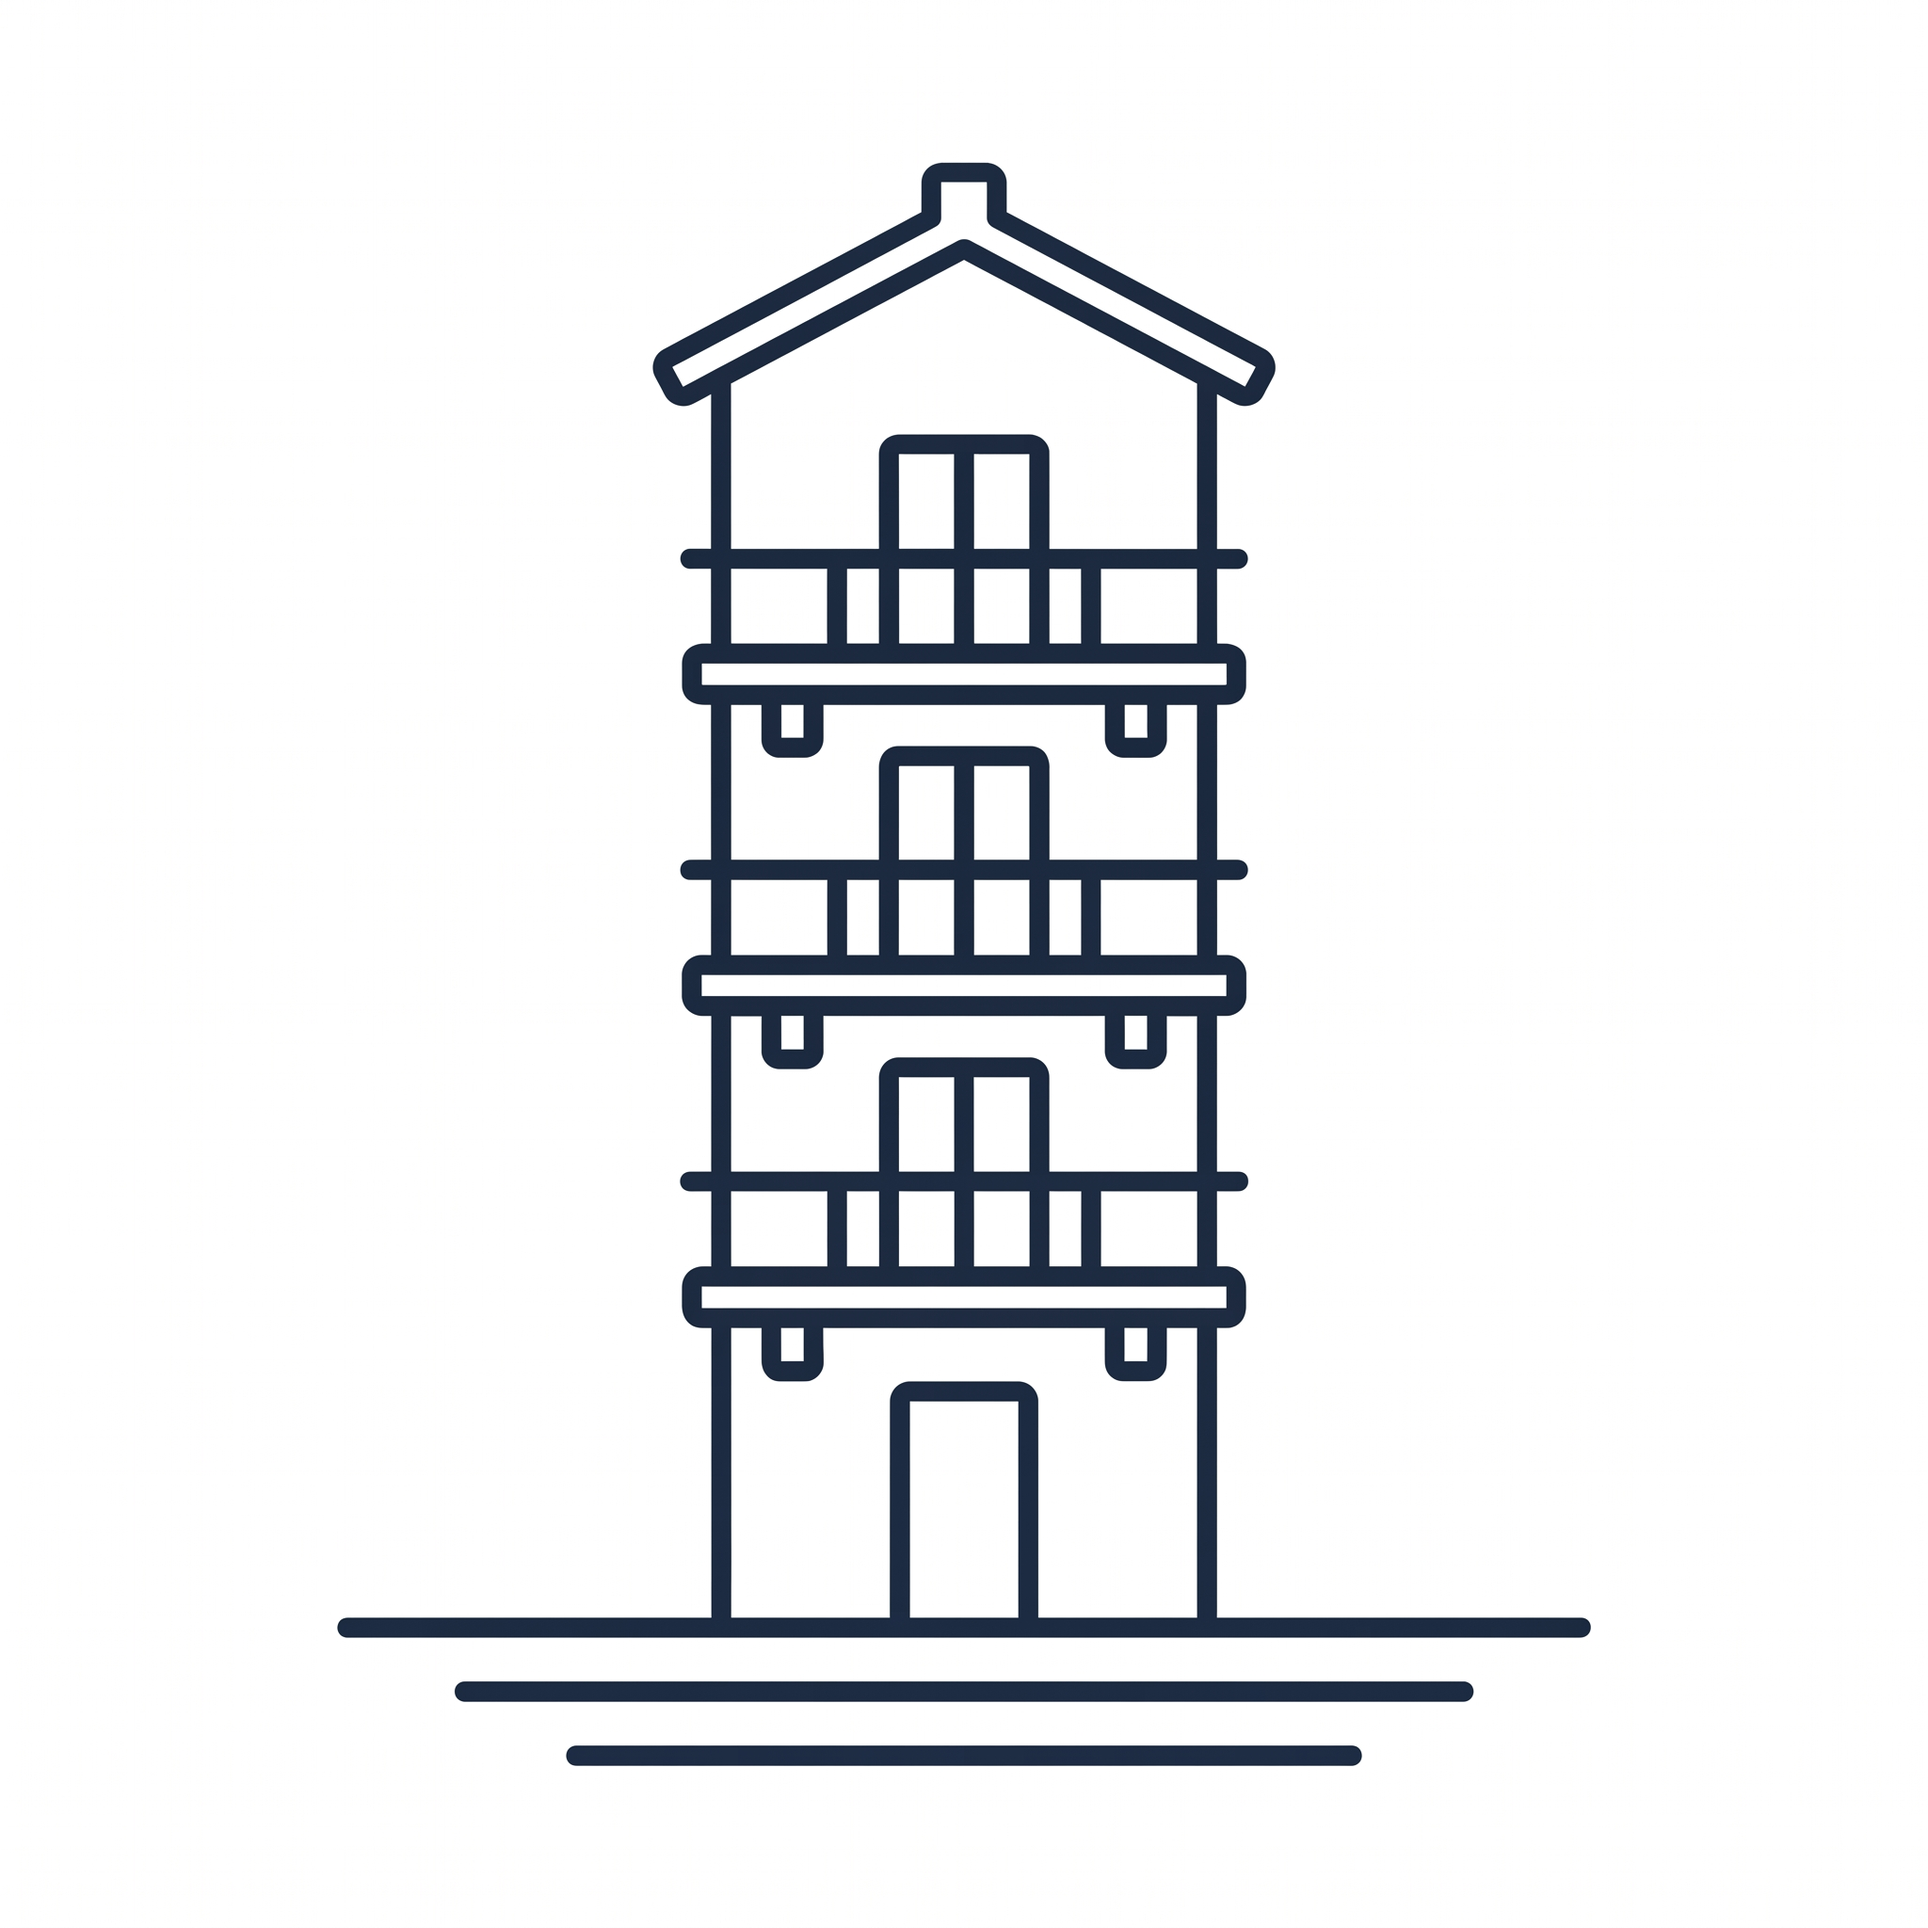
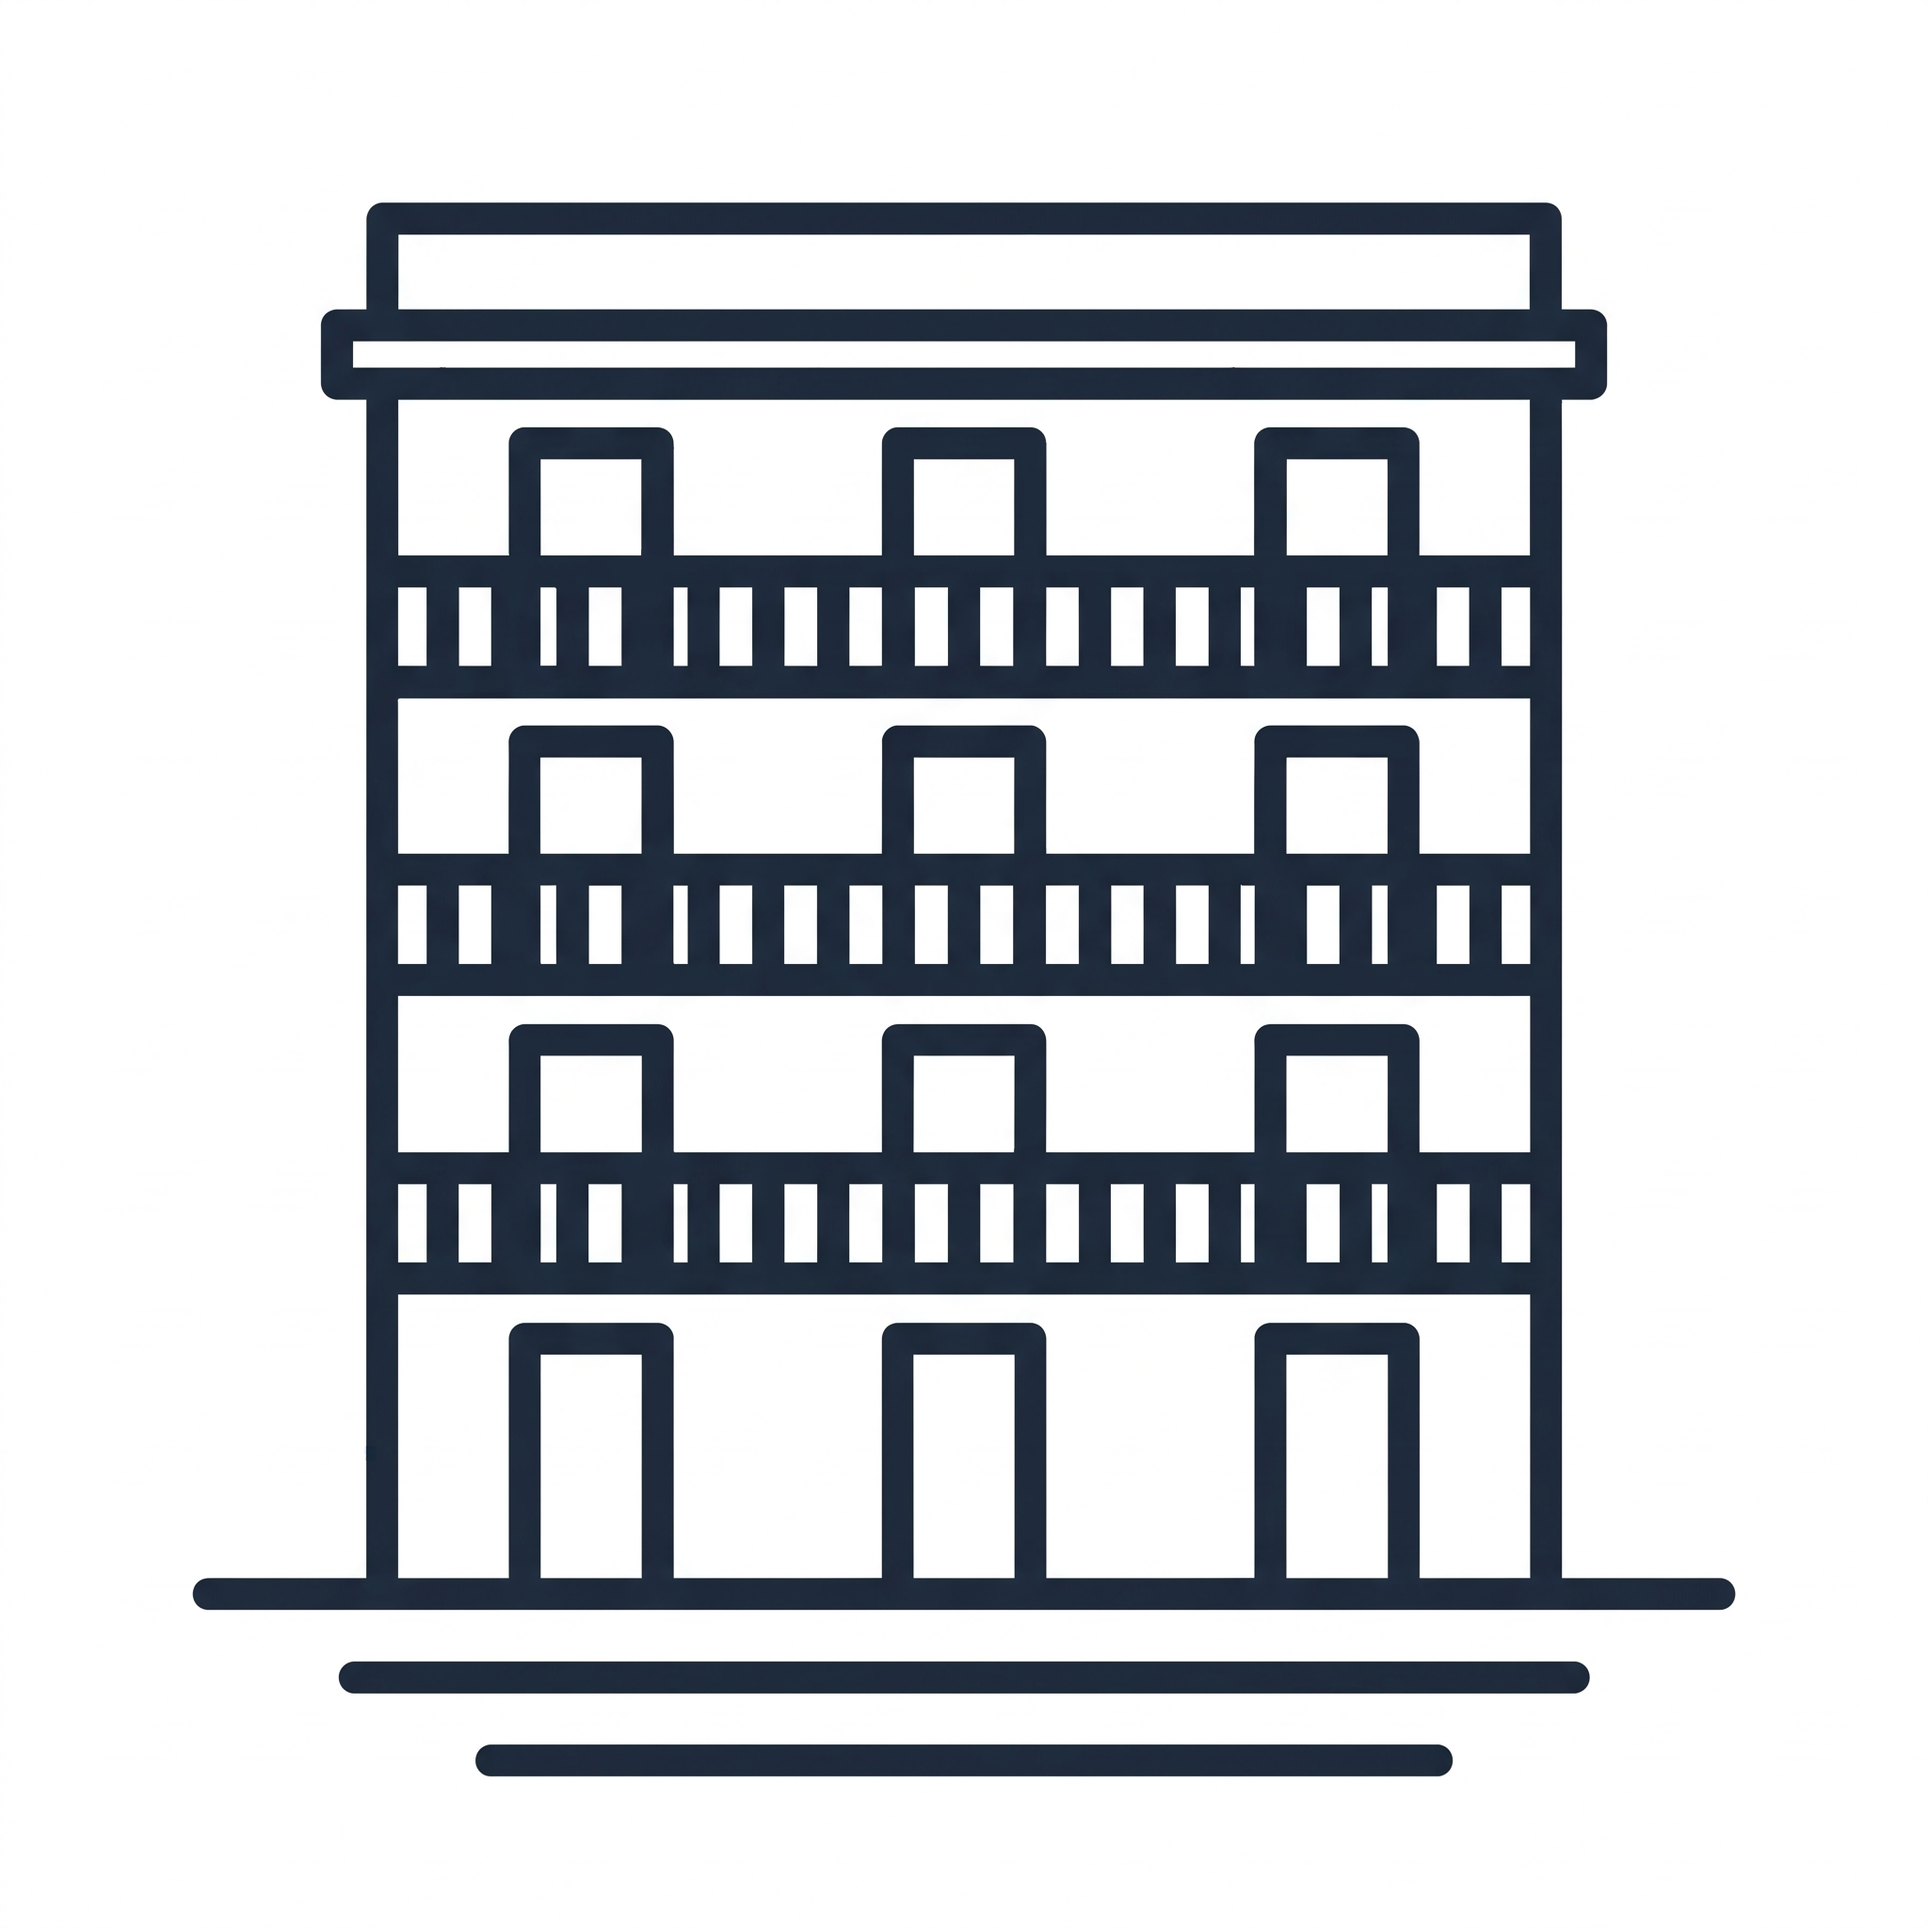
Design: per-spot pictograms s015-s022, redrawn s007 and s012

Changed region(s): [[0.0938, 0.0625, 0.9062, 0.9375]]

diff --git a/CLAUDE.md b/CLAUDE.md
@@ -50,7 +50,7 @@
   - [ ] **7 給朋友試用 ← 下一步**：Chris 用 WhatsApp 把 `docs/friend-guide.md` 的說明 + 網址發給朋友；朋友的截圖 / 問題回來再改。
 - [ ] M3 細分地方 + 撥雲見霧推進動畫；M4 補錄、拍照、分享卡片；M5 朋友（Supabase；朋友只能讀「點亮了哪些區」，不要同步精確位置和時間，用行級權限）。詳見 HANDOFF 第 7 節。M3 前已定（2026-11-20）：舊章永遠留在印章冊；景點下架 / 改區現實裏幾乎不會發生，真碰到再說；「地方」不設章，只有景點有章；用戶只需要蓋章，點亮景點 / 地方 / 區都由 App 自動做。**沒有景點的「地方」怎樣點亮：選 B**（2026-11-20 Chris 定）——按首頁中間那一點讀位置時，人在哪一塊就順手點亮那一塊：不加按鈕、不加字，地圖上那一塊悄悄變色；蓋章仍是唯一的儀式（理由：87 個景點切成約 100–150 塊，大部分塊沒有景點，例如柴灣、小西灣、杏花邨、太古城——只靠蓋章就永遠點不滿；柴灣、小西灣正是這個 App 的起點）。蓋章時當然也點亮景點所在的那一塊和那一區。**區的顏色**跟着定：按「這區亮了幾塊」算深淺，全部亮了才變紅；景點章在區詳情裏另外顯示。M3 第一步「地方」數據（2026-11-21 初稿完成，**等 Chris 在核對頁看**）：`data/dcca2019.geojson`（選管會 2019 選區 452 個，已轉經緯度、全部核對落在自己的區）+ `data/places.csv`（152 個地方，編號 p001–p152，上線前還可以改，上線後永不改、不重用）+ `data/place-splits.csv`（郊區大選區用經緯度長方形再切：大嶼山南 → 大澳 / 昂坪 / 長沙 · 貝澳 / 梅窩，東涌炮台舊谷歸東涌；赤柱及石澳 → 赤柱 / 石澳 · 龍脊 / 大潭；西九文化區從尖沙咀西切給「西九龍」；蝴蝶灣海灘歸屯門碼頭；沙打 → 打鼓嶺 / 沙頭角 · 鹿頸 / 荔枝窩 · 吉澳；塔門 · 東平洲、橋咀洲 · 鹽田梓兩個島組單獨成塊——切線是直的，地圖上看得出來）。`npm run places`（`tools/build-places.mjs`，海岸線跟 18 區圖共用 `tools/coast-lib.mjs`）生成 `public/check/places-data.js`。核對頁 https://kris000601-cpu.github.io/light-up-hk/check/places.html （「要你看的」17 條問題在 `public/check/places-notes.js`）。87 個景點全部落在合理的地方；79 / 152 個地方沒有景點（選 B 才點得亮）。大美督、城門河兩個景點的座標在水面上，不在任何地方裏——無所謂，因為點亮用的是蓋章時人的位置，不是景點座標。**下一步（Chris 看完核對頁之後）**：按他的意見改名 / 合併 / 切；然後 M3 第二步：App 用的地方圖（`src/data/places.json`，跟 18 區圖同一投影；區的外框要跟地方拼起來完全貼合——選區界和民政署區界有細微差別，要決定以哪個為準）+ 點亮記錄（IndexedDB 新表、備份格式升級）+ 首頁按點時順手點亮 + 地圖按「亮了幾塊」上色；再之後撥雲見霧推進動畫。
 - **2026-11-22**：Chris 看過地方核對頁，地名沒問題。修了首頁「章虛一下、消失、再浮現」：雷達浮現原本用 `delay + fill: backwards`，iPhone 上等待期間不透明，CSS 的 `.rs .ink` 淡入先把章顯示出來；改為把等待寫進動畫前一段（一直透明）並關掉那幾個章的 CSS 淡入（`HerePage.tsx` 的 `emerge`）。2026-11-23 Chris 在 iPhone 確認：不再閃，章出來後也不再換章挪位。
-- **每個景點的專屬圖案（進行中，2026-11-22）**：用 Gemini 網頁版（Neon 高）按 `design/gemini/prompt.md` 一張張畫，Claude 在內置瀏覽器裏叫它畫、縮到 66 像素檢查、下載到 `design/gemini/out/sNNN.jpg`（2048×2048），狀態表在 `design/gemini/out/README.md`。已存 s001–s014（s007 藍屋、s012 怪獸大廈要 Chris 看）；**停在 s015**（Gemini 畫圖額度用完，額度恢復後接着畫）。之後要決定怎樣放進章面：描成向量路徑（章面的凸紋 / 濕墨 / 乾墨都用同一個幾何）。
+- **每個景點的專屬圖案（進行中，2026-11-22 起）**：用 Gemini 網頁版（Neon 高）按 `design/gemini/prompt.md` 一張張畫，Claude 在內置瀏覽器裏叫它畫、縮到 66 像素檢查、下載到 `design/gemini/out/sNNN.jpg`（2048×2048），狀態表在 `design/gemini/out/README.md`。已存 s001–s022（s023 尖沙咀鐘樓就是參考圖；s007 藍屋、s012 怪獸大廈 2026-11-23 按 Chris 要求重畫）；**停在 s024 廟街夜市**（Gemini 每天大約只能畫 13 張，額度恢復後接着畫；存原圖的做法見狀態表下面的備忘）。之後要決定怎樣放進章面：描成向量路徑（章面的凸紋 / 濕墨 / 乾墨都用同一個幾何）。
 - 未決：改名；景點數量要不要加。
 
 ## 當前進度

diff --git a/design/gemini/out/README.md b/design/gemini/out/README.md
@@ -1,7 +1,7 @@
 # Gemini 畫的景點圖案（逐個收集中）
 
 來源：Gemini 網頁版（Neon 高）對話「太平山頂獅子亭印章」https://gemini.google.com/app/7d1db0edfc8a91bc ，說明書 `../prompt.md` + 參考圖 `../reference-clock.png`。
-每張 2048×2048 JPEG，檔名 = 景點編號。2026-11-22 起由 Claude 在內置瀏覽器裏一張張叫它畫、檢查（縮到章上實際大小 66 像素還認得出）、下載。
+每張 2048×2048 JPEG（Gemini 原圖 1024，「下載完整尺寸」給的是放大到 2048 的版本），檔名 = 景點編號。2026-11-22 起由 Claude 在內置瀏覽器裏一張張叫它畫、檢查（縮到章上實際大小 66 像素還認得出）、下載。
 
 | 編號 | 景點 | 狀態 | 備註 |
 |---|---|---|---|
@@ -11,14 +11,28 @@
 | s004 | 中環海濱 · 摩天輪 | 好 | |
 | s005 | 堅尼地城海旁 | 好 | |
 | s006 | 金紫荊廣場 | 好 | |
-| s007 | 藍屋建築羣 | 要 Chris 看 | 畫得太細長像座塔；真的藍屋是比較寬的四層唐樓 |
+| s007 | 藍屋建築羣 | 好 | 第一版尖頂細長像座塔（Chris 要重畫）；2026-11-23 重畫成平頂、較寬、三層通長騎樓 + 地舖三個門面 |
 | s008 | 寶雲道 · 姻緣石 | 好 | 第一版線太細、有裂紋香爐欄杆；第二版太細長；第三版粗石柱 |
 | s009 | 跑馬地馬場 | 好 | |
 | s010 | 怡和午炮 | 好 | |
 | s011 | 春秧街 | 好 | |
-| s012 | 益昌大廈（怪獸大廈） | 要 Chris 看 | 清楚，但像普通住宅大廈，看不出怪獸大廈那種密集壓迫感 |
+| s012 | 益昌大廈（怪獸大廈） | 好 | 第一版像普通住宅大廈（Chris 要重畫）；2026-11-23 重畫成三棟高樓擠在一起、密密麻麻的窗和冷氣機 |
 | s013 | 香港抗戰及海防博物館 | 好 | |
 | s014 | 羅屋民俗館 | 好 | |
+| s015 | 小西灣海濱 | 好 | 弧頂涼亭 + 欄杆 |
+| s016 | 龍脊 | 好 | 第一版山脊懸空、多一條斜坡線；重畫成一個落地的山形 + 標距柱。右坡有一點淡灰雜點，描線時去掉 |
+| s017 | 石澳泳灘 | 好 | 救生員塔 |
+| s018 | 赤柱 · 美利樓 | 好 | 三層柱廊 + 斜屋頂 |
+| s019 | 淺水灣 | 好 | 波浪形樓頂 + 中間方洞 |
+| s020 | 香港仔避風塘 | 好 | 第一版背景加了高樓、山、旗（違反只畫一個主體）；重畫只剩舢舨 |
+| s021 | M+ | 好 | 第一版線太細、陸地底座、有灌木；重畫成粗線、海浪底座 |
+| s022 | 香港故宮文化博物館 | 好 | 上寬下窄 + 中間大門 |
+| s023 | 尖沙咀鐘樓 | — | 就是參考圖，不用畫 |
 
-**2026-11-22 停在 s015**：Gemini 說畫圖額度用完（「一旦您的額度重置，我就可以創建更多圖片」）。額度恢復後從 s015 小西灣海濱接着畫。
-做法備忘：每次請求要明說「generate the image」，不然它有時只回 SVG 代碼；請求發出後一分鐘沒有回答框，就刷新頁面再發（試過兩次這樣卡住、6 分鐘後請求消失）。
+**2026-11-23 停在 s024 廟街夜市**：Gemini 畫圖額度又用完（這天出了 13 張，看來每天大約 13 張）。額度恢復後從 s024 接着畫。
+做法備忘：
+- 每次請求要明說「generate the image」，不然它有時只回 SVG 代碼；請求發出後一分鐘沒有回答框，就刷新頁面再發。
+- 模型選「4 Neon」+ 思考等級「高」（輸入框右邊的選單；刷新頁面後要檢查）。
+- **怎樣存原圖**：按圖片右上角「下載完整尺寸的圖片」（或在頁面裏用腳本按最後一個回答的這個按鈕），內置瀏覽器會把 2048×2048 的 JPEG 存到 `C:\Users\chris\Downloads\`，檔名是一串亂碼 `.tmp`；搬過來改名 `sNNN.jpg`。不要用頁面裏顯示的圖（只有 1024、還是 webp），也不要直接下載 lh3 網址（多數要登入，403）。
+- 頁面的網絡請求記錄只留 250 條，記滿了就找不到新圖的網址，所以不要靠它。
+- 它常犯的錯：背景加東西（高樓、山、旗）、線條變細、海 / 陸底座弄錯、山脊兩頭懸空。逐張縮到 66 像素檢查，錯了就指出哪條規則、叫它重畫。

diff --git a/docs/ENGINEERING.md b/docs/ENGINEERING.md
@@ -308,7 +308,7 @@
 ### 路線圖（截至本文更新日）
 - **M2 蓋章**：全部完成（2026-11-23 實地測試）。下一步：把 `docs/friend-guide.md` 發給朋友試用。
 - **M3**：第 1 步「地方」數據完成且 Chris 已看。**第 2 步（未開始）**：App 用的地方圖（`src/data/places.json`，與 18 區同一投影；要決定以選區界還是民政署區界為準，兩者有細微差別，區外框要與地方完全貼合）+ 點亮記錄（IndexedDB 新表、備份格式 v2）+ 首頁按點時順手點亮 + 地圖按「亮了幾塊」上色。之後撥雲見霧推進動畫（點區 → 鏡頭推進 → 霧散開露出地方）。
-- **景點專屬圖案**：Gemini 已畫 s001–s014，額度用完停在 s015。之後要描成向量路徑。
+- **景點專屬圖案**：Gemini 已畫 s001–s022（s023 是參考圖），額度用完停在 s024（每天約 13 張）。之後要描成向量路徑。
 - **M4** 補錄（虛線章）、拍照、分享卡片（9:16）。**M5** 朋友（Supabase；朋友只讀「點亮了哪些區」，不同步精確位置和時間，行級權限）。
 - **未決**：改名（App Store 已有 ExploreHK）；景點數量要不要加（觀塘、葵青、沙田景點少）。
 
